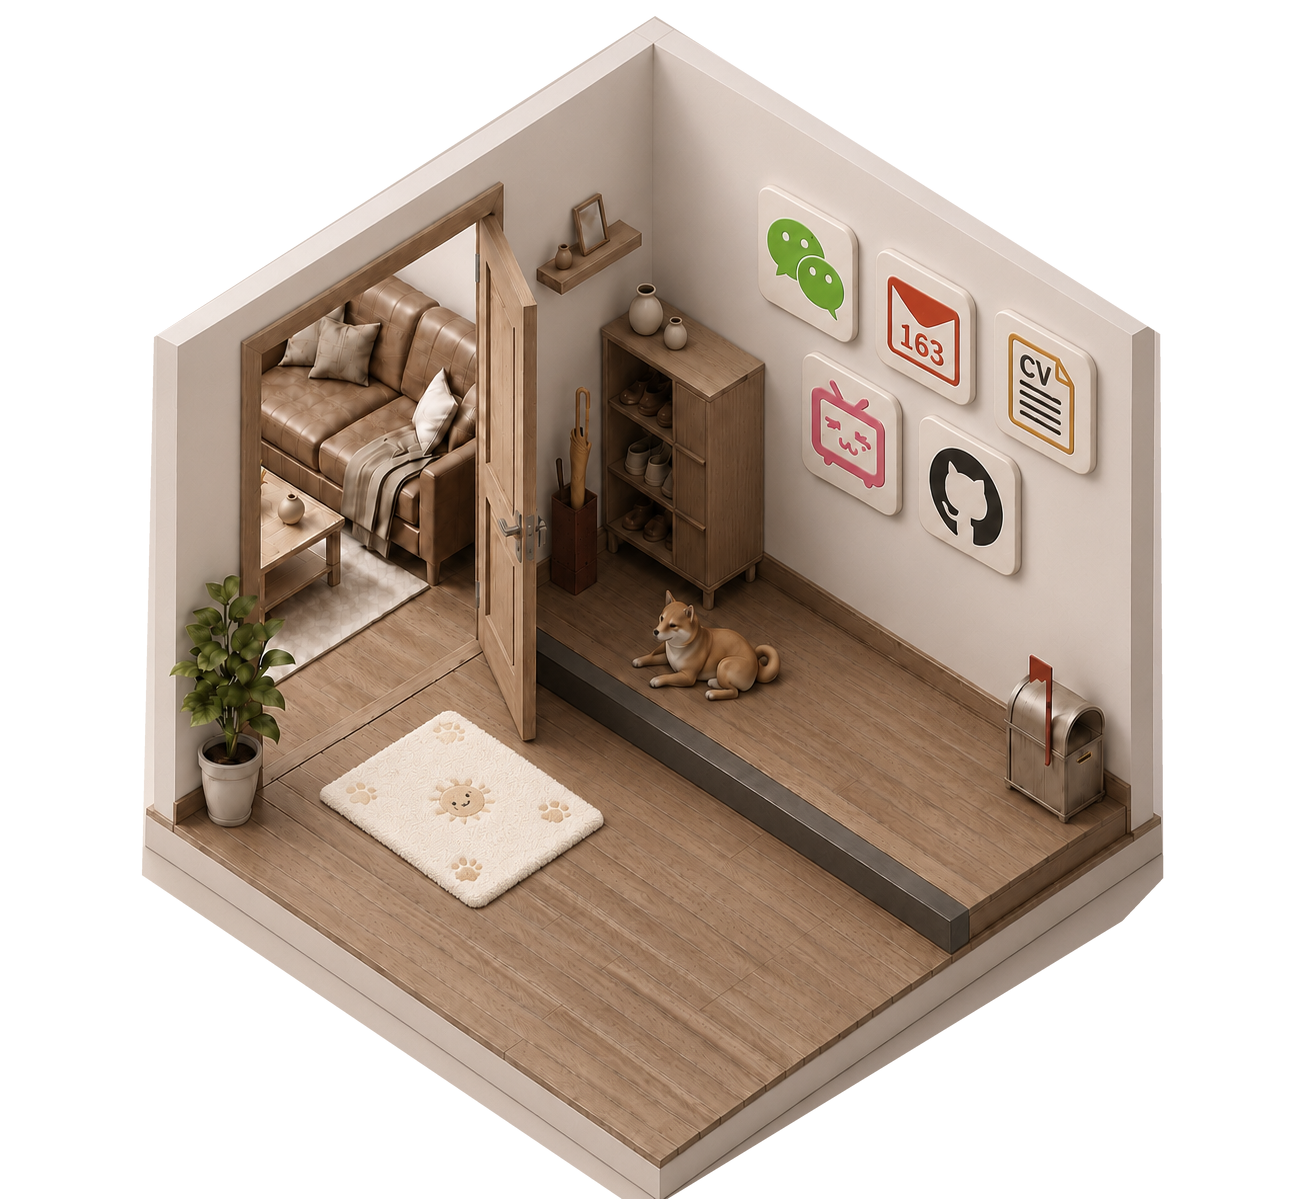
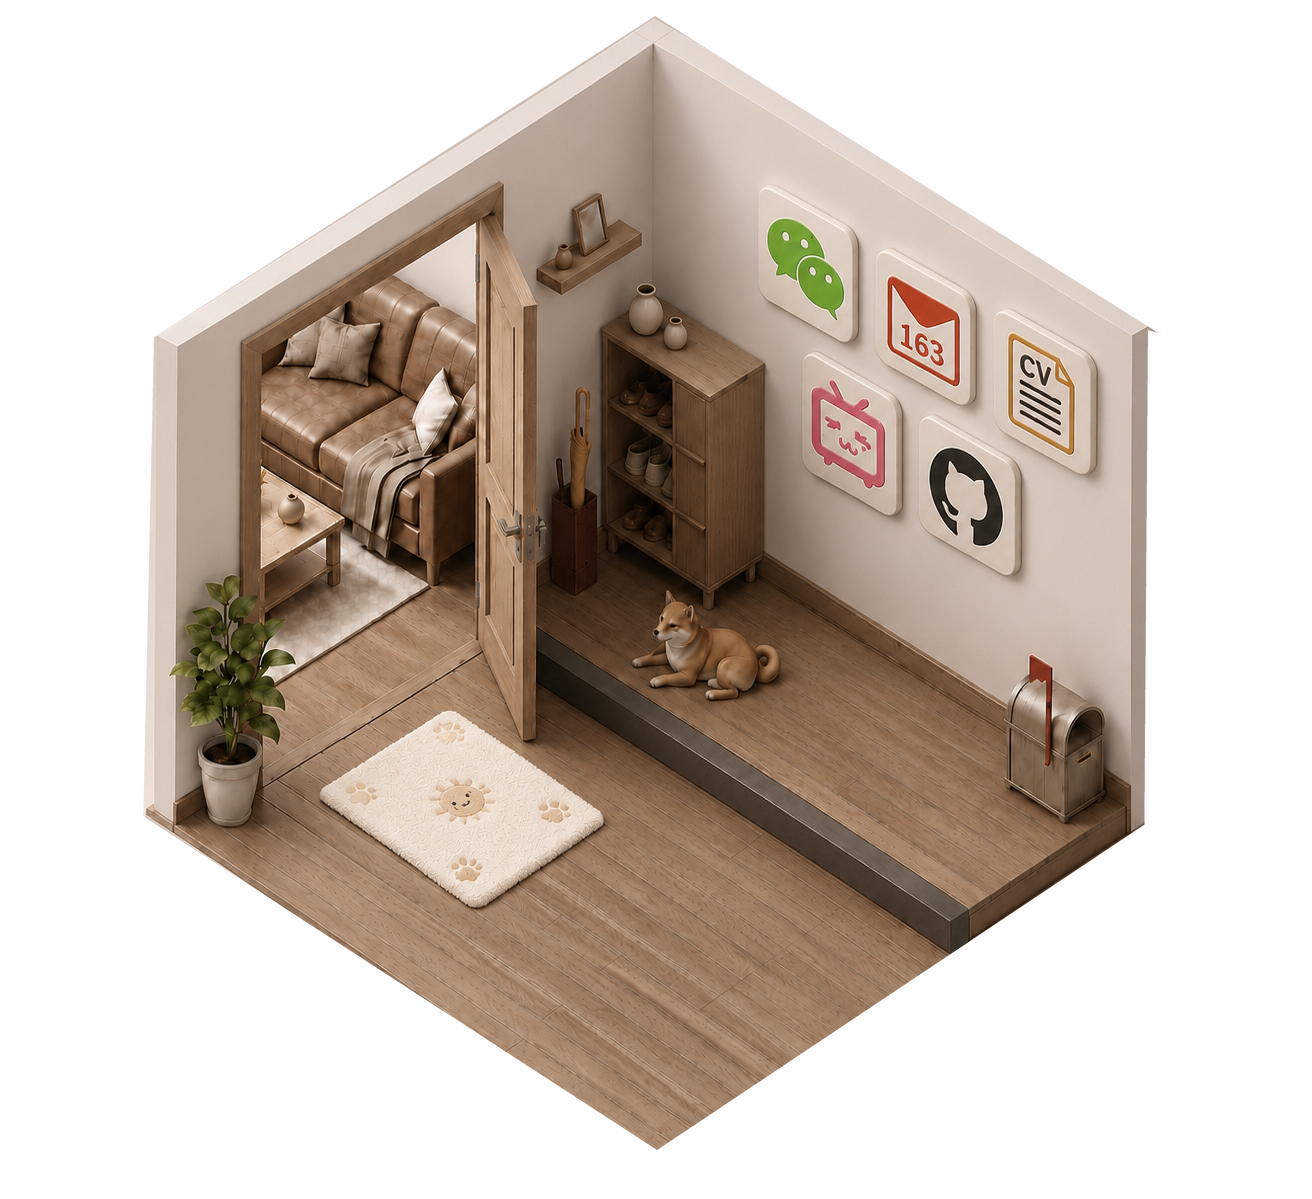
Remove marked doorstep base sections

Changed region(s): [[0.0938, 0.2777, 0.9062, 1.0]]

diff --git a/rooms/doorstep/index.html b/rooms/doorstep/index.html
@@ -1,1 +1,1 @@
-<!doctype html><html lang="zh-CN"><head><meta charset="utf-8"><meta name="viewport" content="width=device-width,initial-scale=1"><meta name="theme-color" content="#ebe6de"><title>门廊 — 杨昕乔 Portfolio</title><link rel="preload" as="image" href="/assets/rooms/doorstep-house-contact-transparent.png?v=2" fetchpriority="high"><link rel="preload" as="image" href="/assets/rooms/doorstep-personal.jpg?v=1" fetchpriority="high"><link rel="stylesheet" href="/styles/portfolio.css?v=154"></head><body><div id="app"></div><script type="module" src="/scripts/app.js?v=144"></script></body></html>
+<!doctype html><html lang="zh-CN"><head><meta charset="utf-8"><meta name="viewport" content="width=device-width,initial-scale=1"><meta name="theme-color" content="#ebe6de"><title>门廊 — 杨昕乔 Portfolio</title><link rel="preload" as="image" href="/assets/rooms/doorstep-house-contact-transparent.png?v=3" fetchpriority="high"><link rel="preload" as="image" href="/assets/rooms/doorstep-personal.jpg?v=1" fetchpriority="high"><link rel="stylesheet" href="/styles/portfolio.css?v=154"></head><body><div id="app"></div><script type="module" src="/scripts/app.js?v=145"></script></body></html>

diff --git a/rooms/garden/index.html b/rooms/garden/index.html
@@ -1,1 +1,1 @@
-<!doctype html><html lang="en"><head><meta charset="utf-8"><meta name="viewport" content="width=device-width,initial-scale=1"><meta name="theme-color" content="#f1f0eb"><title>Garden — 杨昕乔 Portfolio</title><link rel="preload" as="image" href="/assets/rooms/doorstep-house-contact-transparent.png?v=2" fetchpriority="low"><link rel="stylesheet" href="/styles/portfolio.css?v=154"></head><body><div id="app"></div><script type="module" src="/scripts/app.js?v=144"></script></body></html>
+<!doctype html><html lang="en"><head><meta charset="utf-8"><meta name="viewport" content="width=device-width,initial-scale=1"><meta name="theme-color" content="#f1f0eb"><title>Garden — 杨昕乔 Portfolio</title><link rel="preload" as="image" href="/assets/rooms/doorstep-house-contact-transparent.png?v=3" fetchpriority="low"><link rel="stylesheet" href="/styles/portfolio.css?v=154"></head><body><div id="app"></div><script type="module" src="/scripts/app.js?v=145"></script></body></html>

diff --git a/rooms/living/index.html b/rooms/living/index.html
@@ -1,1 +1,1 @@
-<!doctype html><html lang="en"><head><meta charset="utf-8"><meta name="viewport" content="width=device-width,initial-scale=1"><meta name="theme-color" content="#f1f0eb"><title>Living Room — 杨昕乔 Portfolio</title><link rel="stylesheet" href="/styles/portfolio.css?v=154"></head><body><div id="app"></div><script type="module" src="/scripts/app.js?v=144"></script></body></html>
+<!doctype html><html lang="en"><head><meta charset="utf-8"><meta name="viewport" content="width=device-width,initial-scale=1"><meta name="theme-color" content="#f1f0eb"><title>Living Room — 杨昕乔 Portfolio</title><link rel="stylesheet" href="/styles/portfolio.css?v=154"></head><body><div id="app"></div><script type="module" src="/scripts/app.js?v=145"></script></body></html>

diff --git a/rooms/kitchen/index.html b/rooms/kitchen/index.html
@@ -1,1 +1,1 @@
-<!doctype html><html lang="en"><head><meta charset="utf-8"><meta name="viewport" content="width=device-width,initial-scale=1"><meta name="theme-color" content="#f1f0eb"><title>Kitchen — 杨昕乔 Portfolio</title><link rel="stylesheet" href="/styles/portfolio.css?v=154"></head><body><div id="app"></div><script type="module" src="/scripts/app.js?v=144"></script></body></html>
+<!doctype html><html lang="en"><head><meta charset="utf-8"><meta name="viewport" content="width=device-width,initial-scale=1"><meta name="theme-color" content="#f1f0eb"><title>Kitchen — 杨昕乔 Portfolio</title><link rel="stylesheet" href="/styles/portfolio.css?v=154"></head><body><div id="app"></div><script type="module" src="/scripts/app.js?v=145"></script></body></html>

diff --git a/rooms/study/index.html b/rooms/study/index.html
@@ -1,1 +1,1 @@
-<!doctype html><html lang="en"><head><meta charset="utf-8"><meta name="viewport" content="width=device-width,initial-scale=1"><meta name="theme-color" content="#f1f0eb"><title>Study — 杨昕乔 Portfolio</title><link rel="stylesheet" href="/styles/portfolio.css?v=154"></head><body><div id="app"></div><script type="module" src="/scripts/app.js?v=144"></script></body></html>
+<!doctype html><html lang="en"><head><meta charset="utf-8"><meta name="viewport" content="width=device-width,initial-scale=1"><meta name="theme-color" content="#f1f0eb"><title>Study — 杨昕乔 Portfolio</title><link rel="stylesheet" href="/styles/portfolio.css?v=154"></head><body><div id="app"></div><script type="module" src="/scripts/app.js?v=145"></script></body></html>

diff --git a/scripts/rooms-data.js b/scripts/rooms-data.js
@@ -953,7 +953,7 @@ export const ROOMS = [
     number: "05",
     title: "Doorstep",
     path: "/rooms/doorstep",
-    image: "/assets/rooms/doorstep-house-contact-transparent.png?v=2",
+    image: "/assets/rooms/doorstep-house-contact-transparent.png?v=3",
     alt: "暖色等距视角门廊小屋，包含开放木门、鞋柜、联系图标、小狗和地垫",
     description: "A quiet goodbye at the doorstep.",
     isDoorstep: true,

diff --git a/index.html b/index.html
@@ -12,6 +12,6 @@
 <body>
   <div id="app"></div>
   <noscript>This portfolio requires JavaScript for room navigation.</noscript>
-  <script type="module" src="/scripts/app.js?v=144"></script>
+  <script type="module" src="/scripts/app.js?v=145"></script>
 </body>
 </html>

diff --git a/scripts/app.js b/scripts/app.js
@@ -7,7 +7,7 @@ import {
   SHOW_HOTSPOTS,
   adjacentPages,
   roomFromPath,
-} from "/scripts/rooms-data.js?v=98";
+} from "/scripts/rooms-data.js?v=99";
 
 const PAGE_FADE_TIMING = { exit: 240, enter: 360 };
 const REDUCED_PAGE_FADE_TIMING = { exit: 1, enter: 1 };

diff --git a/scripts/extract-doorstep-house.py b/scripts/extract-doorstep-house.py
@@ -24,6 +24,16 @@ HOUSE_OUTLINE = (
     (154, 337),
 )
 
+# The supplied 4900.jpg marks these three structural pieces for removal:
+# the narrow outside edge of the right wall and the two white plinth sections
+# below the left and right front floor edges. They are cut from the alpha mask,
+# while the room, floor surface, and interior objects remain pixel-identical.
+REMOVED_REGIONS = (
+    ((1148, 330), (1168, 336), (1167, 878), (1152, 892), (1144, 878)),
+    ((140, 814), (657, 1150), (660, 1205), (631, 1205), (140, 878)),
+    ((657, 1150), (1160, 814), (1167, 920), (660, 1205)),
+)
+
 SUPERSAMPLE = 4
 
 
@@ -38,7 +48,10 @@ def main() -> None:
         0,
     )
     points = [(x * SUPERSAMPLE, y * SUPERSAMPLE) for x, y in HOUSE_OUTLINE]
-    ImageDraw.Draw(mask).polygon(points, fill=255)
+    draw = ImageDraw.Draw(mask)
+    draw.polygon(points, fill=255)
+    for region in REMOVED_REGIONS:
+        draw.polygon([(x * SUPERSAMPLE, y * SUPERSAMPLE) for x, y in region], fill=0)
     mask = mask.resize(source.size, Image.Resampling.LANCZOS)
 
     source.putalpha(mask)
